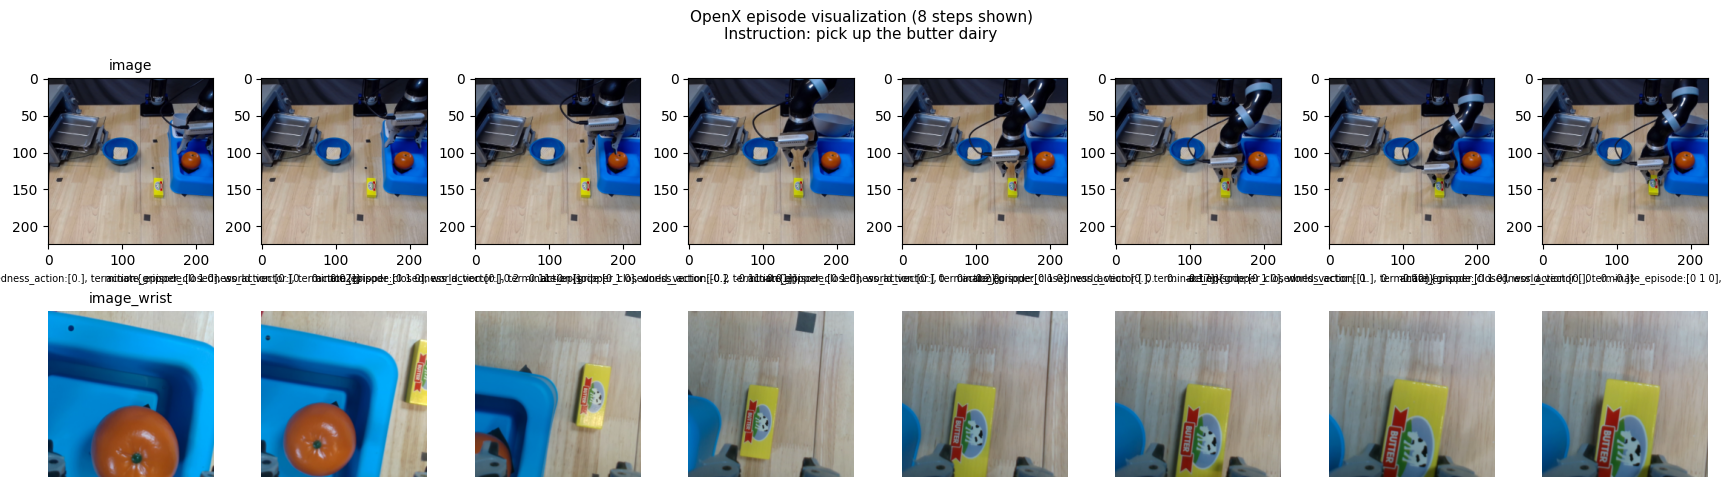
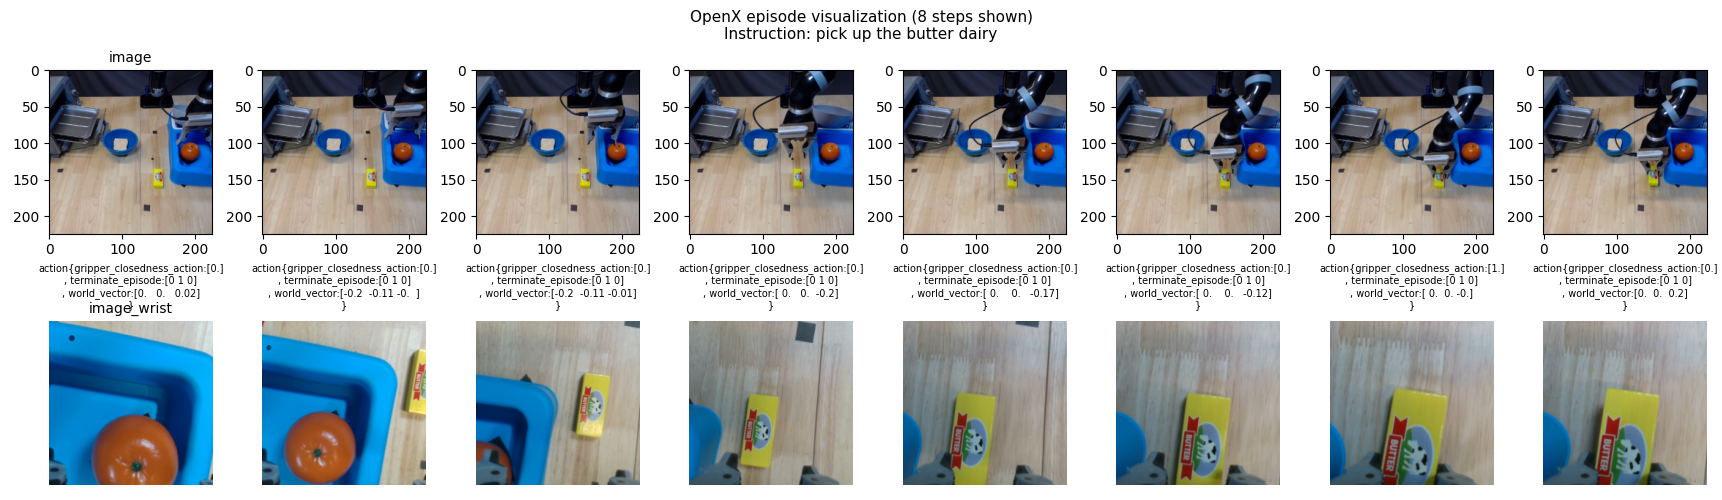
update image

diff --git a/visualize_dataset.py b/visualize_dataset.py
@@ -128,13 +128,13 @@ def summarize_action(action: Any, max_items: int = 3) -> str:
                 flat = arr_v.reshape(-1)
                 shown = np.round(flat[:max_items], 2)
                 more = "" if flat.size <= max_items else f"…(+{flat.size - max_items})"
-                parts.append(f"{k}:{shown}{more}")
+                parts.append(f"{k}:{shown}{more}\n")
             else:
                 # If nested dict, just show keys
                 if isinstance(v, dict):
-                    parts.append(f"{k}:(dict keys={list(v.keys())[:4]})")
+                    parts.append(f"{k}:(dict keys={list(v.keys())[:4]})\n")
                 else:
-                    parts.append(f"{k}:(type {type(v).__name__})")
+                    parts.append(f"{k}:(type {type(v).__name__})\n")
         return "action{" + ", ".join(parts) + "}"
 
     # Fallback
